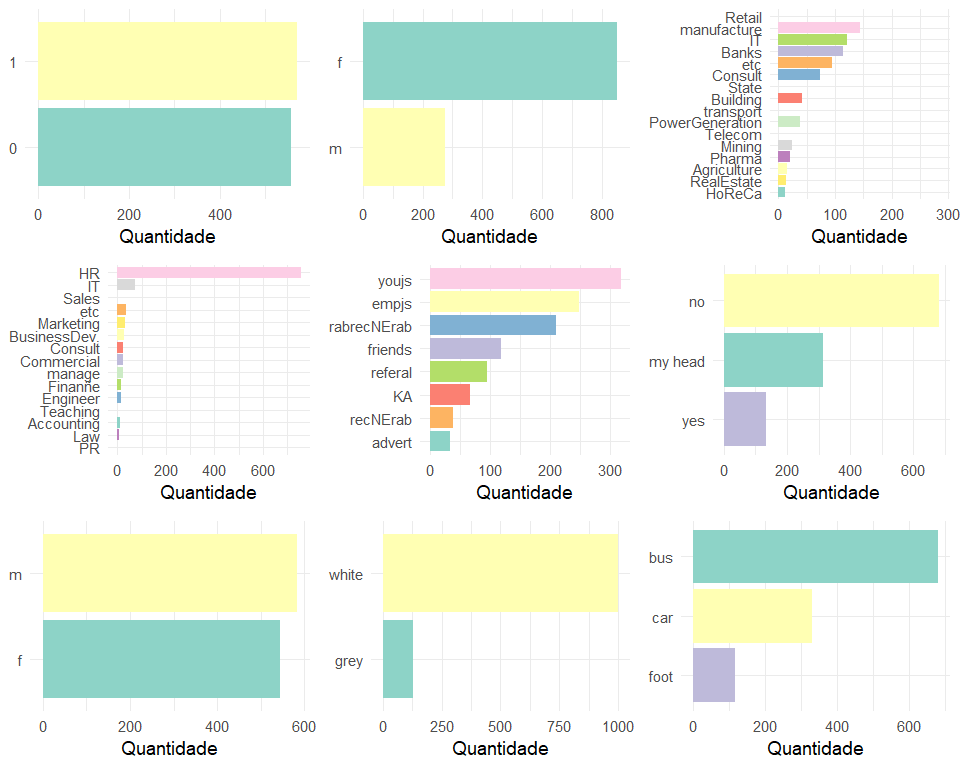
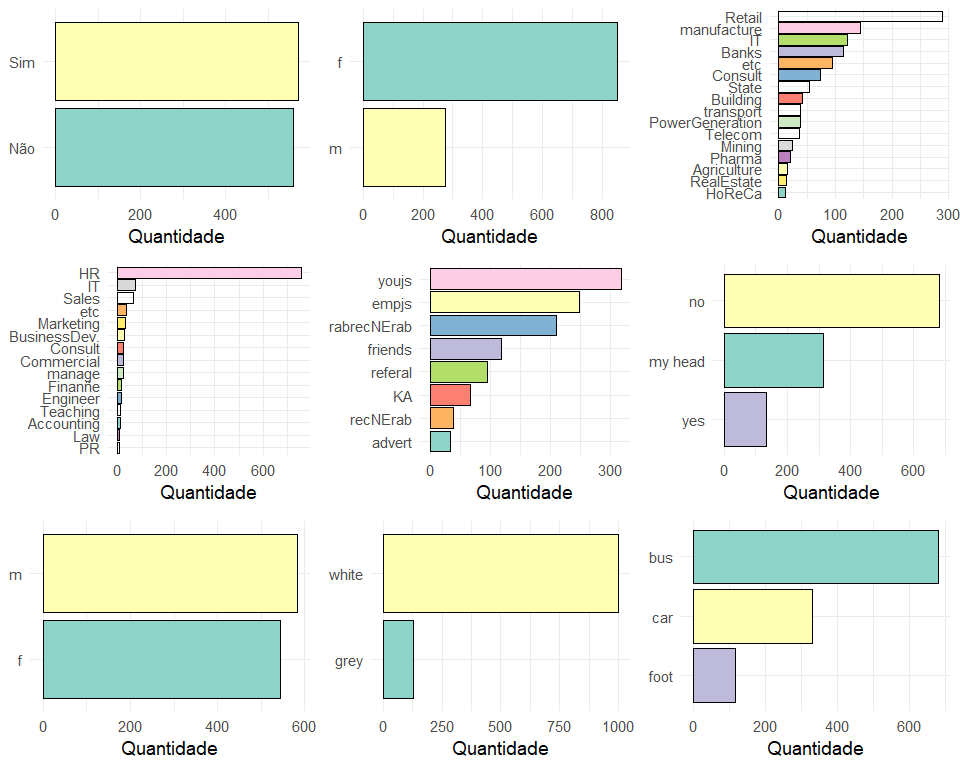
16092020

diff --git a/turnover_rodrigo/rmd_arquivo.md b/turnover_rodrigo/rmd_arquivo.md
@@ -865,10 +865,13 @@ dados %>%
 ``` r
 df_chr <- 
   dados %>% 
-  mutate(event = as.character(x = event)) %>% 
-  select_if(is.character) %>% 
-  mutate(profession = ifelse(profession == "BusinessDevelopment",
-                             "BusinessDev.", profession))
+  mutate(event = as.character(x = event),
+         event = case_when(event == 0 ~ "Não",
+                           TRUE ~ "Sim"),
+         profession = ifelse(profession == "BusinessDevelopment",
+                             "BusinessDev.", profession)
+         ) %>% 
+  select_if(is.character)
   
 
 rafs_geom_bar <- function(df, x){
@@ -877,7 +880,7 @@ rafs_geom_bar <- function(df, x){
     count(.data[[x]], sort = TRUE) %>% 
     ggplot(data = ., aes(x = reorder(.data[[x]], n), y = n, 
                          fill = .data[[x]])) +
-    geom_bar(stat = "identity") +
+    geom_bar(stat = "identity", colour = "black") +
     labs(y = "Quantidade", x = .data[[x]]) +
     theme_minimal(14) +
     theme(legend.position = "null") +
@@ -895,6 +898,61 @@ cowplot::plot_grid(plotlist = all_plots)
 ```
 
 <img src="rmd_arquivo_files/figure-gfm/unnamed-chunk-4-1.png" style="display: block; margin: auto;" />
+
+### 5.4. Interação da variável `Event`
+
+#### 5.4.1. Variáveis quantitativas
+
+``` r
+dados %>% 
+  select_if(is.numeric) %>% 
+  select(event, stag, everything()) %>% 
+  mutate(event = case_when(event == 0 ~ "Não",
+                           TRUE ~ "Sim")) %>% 
+  pivot_longer(stag:novator, names_to = "variavel", values_to = "valor") %>% 
+  ggplot(data = ., aes(x = variavel, y = valor, fill = variavel)) +
+  geom_boxplot(colour = "black") +
+  facet_wrap(~ event) + 
+  theme(legend.position = "null") +
+  labs(x = "Variável", y = "Valor")
+```
+
+<img src="rmd_arquivo_files/figure-gfm/unnamed-chunk-5-1.png" style="display: block; margin: auto;" />
+
+#### 5.4.2. Variáveis categóricas
+
+``` r
+rafs_geom_bar2 <- function(df, x, y){
+  
+  df %>% 
+    group_by(.data[[y]]) %>% 
+    count(.data[[x]], sort = TRUE) %>% 
+    ggplot(data = ., aes(x = reorder(.data[[x]], n), y = n, 
+                         fill = .data[[x]])) +
+    geom_bar(stat = "identity", colour = "black") +
+    facet_wrap(~ .data[[y]]) +
+    labs(y = "Quantidade", x = "", title = paste("Variável:", x)) +
+    theme_minimal(14) +
+    theme(legend.position = "null") +
+    scale_fill_brewer(palette = "Set3") +
+    coord_flip()
+    
+}
+
+ys1 <-
+  df_chr %>% 
+  select(-event) %>% 
+  names
+
+all_plots2 <- map2(.x = ys1, .y = "event", 
+                   .f = ~ rafs_geom_bar2(df = df_chr, 
+                                         x = .x,
+                                         y = .y))
+
+cowplot::plot_grid(plotlist = all_plots2, nrow = 4)
+```
+
+<img src="rmd_arquivo_files/figure-gfm/unnamed-chunk-6-1.png" style="display: block; margin: auto;" />
 
 ## 6\. Modelagem
 
